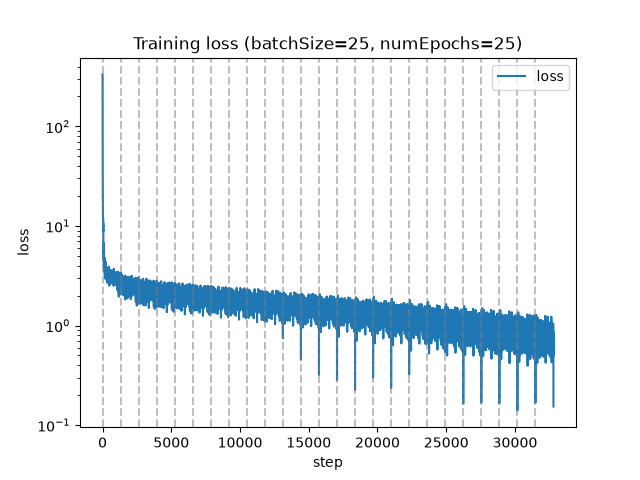
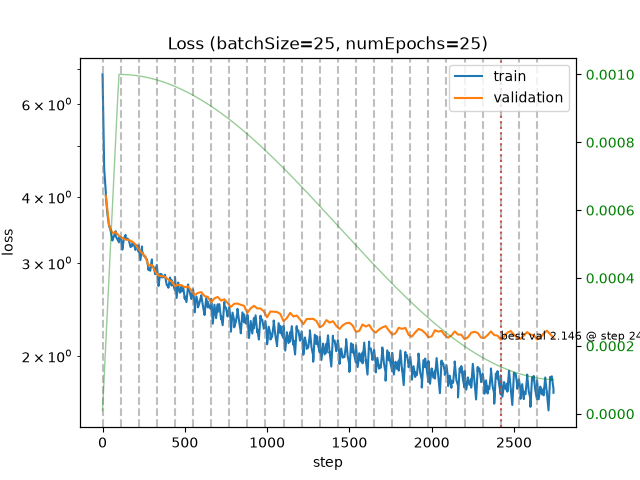
Update README

diff --git a/README.md b/README.md
@@ -1,61 +1,112 @@
 # mini-gpt
 
-A GPT implementation built from scratch in Python/PyTorch: byte-level BPE tokeniser and a decoder-only transformer, both written by hand rather than pulled from a library.
+A GPT built from scratch in Python/PyTorch, byte-level BPE tokeniser, decoder-only transformer, pretraining, supervised fine-tuning, LoRA, KV-cached inference, and a deployed API. Every component is written by hand rather than pulled from a library.
 
-## Setup
+**Live demo:** https://storyteller-1051990688087.europe-west2.run.app/docs
 
+## Try it
+
+The model is deployed on Cloud Run. Open `/docs` above for an interactive form, or:
+
+```bash
+curl -X POST https://storyteller-1051990688087.europe-west2.run.app/generate \
+  -H 'Content-Type: application/json' \
+  -d '{"prompt":"Write a story about a dragon who loves cake.","maxTokens":100,"temperature":0.7,"k":10}'
 ```
+
+```json
+{
+  "text": "Write a story about a dragon who loves cake.\n\nStory:\nOnce upon a time, there was a little girl named Lily. She loved to play with her toys and eat yummy food. One day, she found",
+  "promptTokens": 33,
+  "truncated": false,
+  "contextLimit": 256
+}
+```
+
+| field | meaning |
+| --- | --- |
+| `prompt` | The instruction. The delimiter the model was fine-tuned on is appended server-side, so write an instruction rather than story text. |
+| `maxTokens` | 1–256, default 100. Roughly 38 ms/token on a Cloud Run vCPU, so 100 tokens ≈ 4 s. |
+| `temperature` | > 0, default 1.0. Lower is more deterministic; 0.4 gives coherent stories, 1.0 wanders. |
+| `k` | Top-k sampling width, default 10. |
+
+`GET /health` reports the loaded checkpoint, device, parameter count and context limit.
+
+## The model
+
+29.4M parameters — `dModel=512`, 8 layers, 8 heads, `dFF=2048`, `maxLen=256`, vocab 8258.
+
+Pretrained on TinyStories (2.2 GB ≈ 1.08B tokens at the tokeniser's measured 2.06 bytes/token), then instruction-tuned on 98 hand-written examples.
+
+| | |
+| --- | --- |
+| Validation loss | **2.146** after 590M tokens |
+| Random-guess baseline | `ln(8258)` = 9.02 |
+| Verbatim 5-gram overlap with training corpus | 0/46 sampled |
+
+## Results
+
+**Pretraining.** Log-scale y-axis, so convergence stays visible rather than being dwarfed by the initial spike.
+
+![Loss curve](docs/loss_curve.png)
+
+**Attention.** One sentence's weights across all heads, snapshotted at the end of training.
+
+![Attention heatmap](docs/attention_heatmap.png)
+
+**KV-cached inference.** Generating 100 tokens from a 20-token prompt, single CPU thread:
+
+| | time | per token |
+| --- | --- | --- |
+| Full recomputation each step | 1.81 s | 18.1 ms |
+| KV cache | 0.66 s | 6.6 ms |
+
+**2.7×**, and the gap widens with sequence length — cached decode is flat in the context length where recomputation is linear in it. Correctness is enforced by a test asserting the cached path matches full recomputation to `1e-5` at *every* decode step, not just the last.
+
+**LoRA.** Rank-8 adapters on all 48 `nn.Linear` layers: **589,824 trainable parameters, 1.99% of the model.** `B` is initialised to zero so the adapter is a no-op at init; `mergeLoRA` folds `W += scale·B@A` back into plain `Linear` layers so the result loads into an ordinary `GPT`.
+
+## Layout
+
+| | |
+| --- | --- |
+| `tokeniser/` | Byte-level BPE, GPT-2 style. `preprocessor.py` splits raw text and maps bytes to safe printable Unicode; `trainer.py` learns merges greedily by frequency; `bpe.py` applies them via a doubly linked list and min-heap, memoised per word. |
+| `transformer/` | Embeddings, multi-head attention, feedforward, layer norm, residuals, stacked into a decoder-only GPT. `train.py` pretrains, `generate.py` does KV-cached autoregressive sampling, `kvcache.py` holds the per-layer key/value store, `memmapsampler.py` streams training windows from a flat `uint16` file. |
+| `sft/` | Supervised fine-tuning. `sftutils.py` formats and masks examples so loss is only taken on the response, `sft.py` runs the loop, `lora/` implements LoRA injection and merging. |
+| `server/` | FastAPI service — validated request models, model loaded once at startup, per-request KV cache. |
+| `traininglogger/` | JSON-lines loss logging and matplotlib visualisation. |
+| `datastructures/` | Doubly linked list node used by the BPE encoder to merge symbols in place. |
+| `test/` | Tokeniser round-trips, transformer shape and causal-masking tests, KV cache equivalence, training and generation smoke tests. |
+
+## Running locally
+
+```bash
 python3 -m venv venv
 source venv/bin/activate
 pip install -r requirements.txt
 ```
 
-## Running it
+**Generate from a checkpoint:**
 
-```
-python main.py "<prompt>" <path-to-training-file> [--maxTokens 50] [--checkpoint checkpoint.pt]
-```
-
-If `--checkpoint` points to a file that already exists, it loads that checkpoint instead of retraining. Otherwise it trains a tokeniser and model from the given file and saves a checkpoint to that path once done.
-
-Example:
-Actual output from a real run:                                                                                             
-                                                                                                                          
-```                                                                                                                        
-$ python3 main.py "Hi" "tokeniser/test.txt" --checkpoint "checkpoint.pt"                                                   
-Hi people are mimimes reed the in rest along to the of caled.
+```bash
+python main.py "Once upon a time" trained_model/serve.pt --maxTokens 100
 ```
 
-## Layout
+**Tests:**
 
-- `tokeniser/` - byte-level BPE (GPT-2 style). `preprocessor.py` splits raw text and maps bytes to safe printable unicode symbols, `trainer.py` learns merges greedily by frequency, `bpe.py` applies those merges to encode/decode text.
-- `transformer/` - the model itself: embeddings, multi-head attention, feedforward, layer norm, residual connections, stacked into a decoder-only GPT. `train.py` and `generate.py` wire it together for training and autoregressive generation. `checkpoint.py` handles saving/loading.
-- `traininglogger/` - structured logging for a training run. `logger.py` writes loss per step to a JSON-lines file and can snapshot attention weights to a `.pt` file; `visualiser.py` reads those back and plots a loss curve / attention heatmaps.
-- `datastructures/` - a small doubly linked list node, used internally by the BPE encoder so it can apply merges in-place without shuffling a list around.
-- `test/` - pytest suite: tokeniser encode/decode round-trips, a shape test and a causal-masking correctness test for the transformer, and smoke tests for the training and generation pipelines.
-
-## Tests
-
-```
-pytest test/
+```bash
+./venv/bin/python -m pytest test/ -q
 ```
 
-## Logging and visualisation
+**Supervised fine-tuning** (full fine-tune or LoRA, switched by `useLoRA` in `sft/runsft.py`):
 
-Each training run writes a `logs/run_<timestamp>.jsonl` file (one header line with the run's config, then one line per training step with loss). After training, run:
-
-```python
-from traininglogger.visualiser import visualiseLoss
-visualiseLoss("logs/run_<timestamp>.jsonl")
+```bash
+./venv/bin/python -m sft.runsft
 ```
 
-which saves `docs/loss_curve.png` (log-scale y-axis, so the convergence is visible across epochs rather than dwarfed by the initial spike):
+**The API:**
 
-![Loss curve](docs/loss_curve.png)
+```bash
+./venv/bin/uvicorn server.app:app --reload
+```
 
-There's also an attention snapshot taken at the end of training (`logs/attentions_<timestamp>.pt`, one sentence's attention weights across all heads), which `visualiseAttention` turns into a heatmap per head:
-
-![Attention heatmap](docs/attention_heatmap.png)
-
-## Known limitations
-- No learning rate scheduling, gradient clipping, or validation split - it's a minimal training loop, not a tuned one.
+Run everything from the project root — `python sft/foo.py` puts `sft/` on `sys.path` instead of the repo root, so use `python -m sft.foo`.
